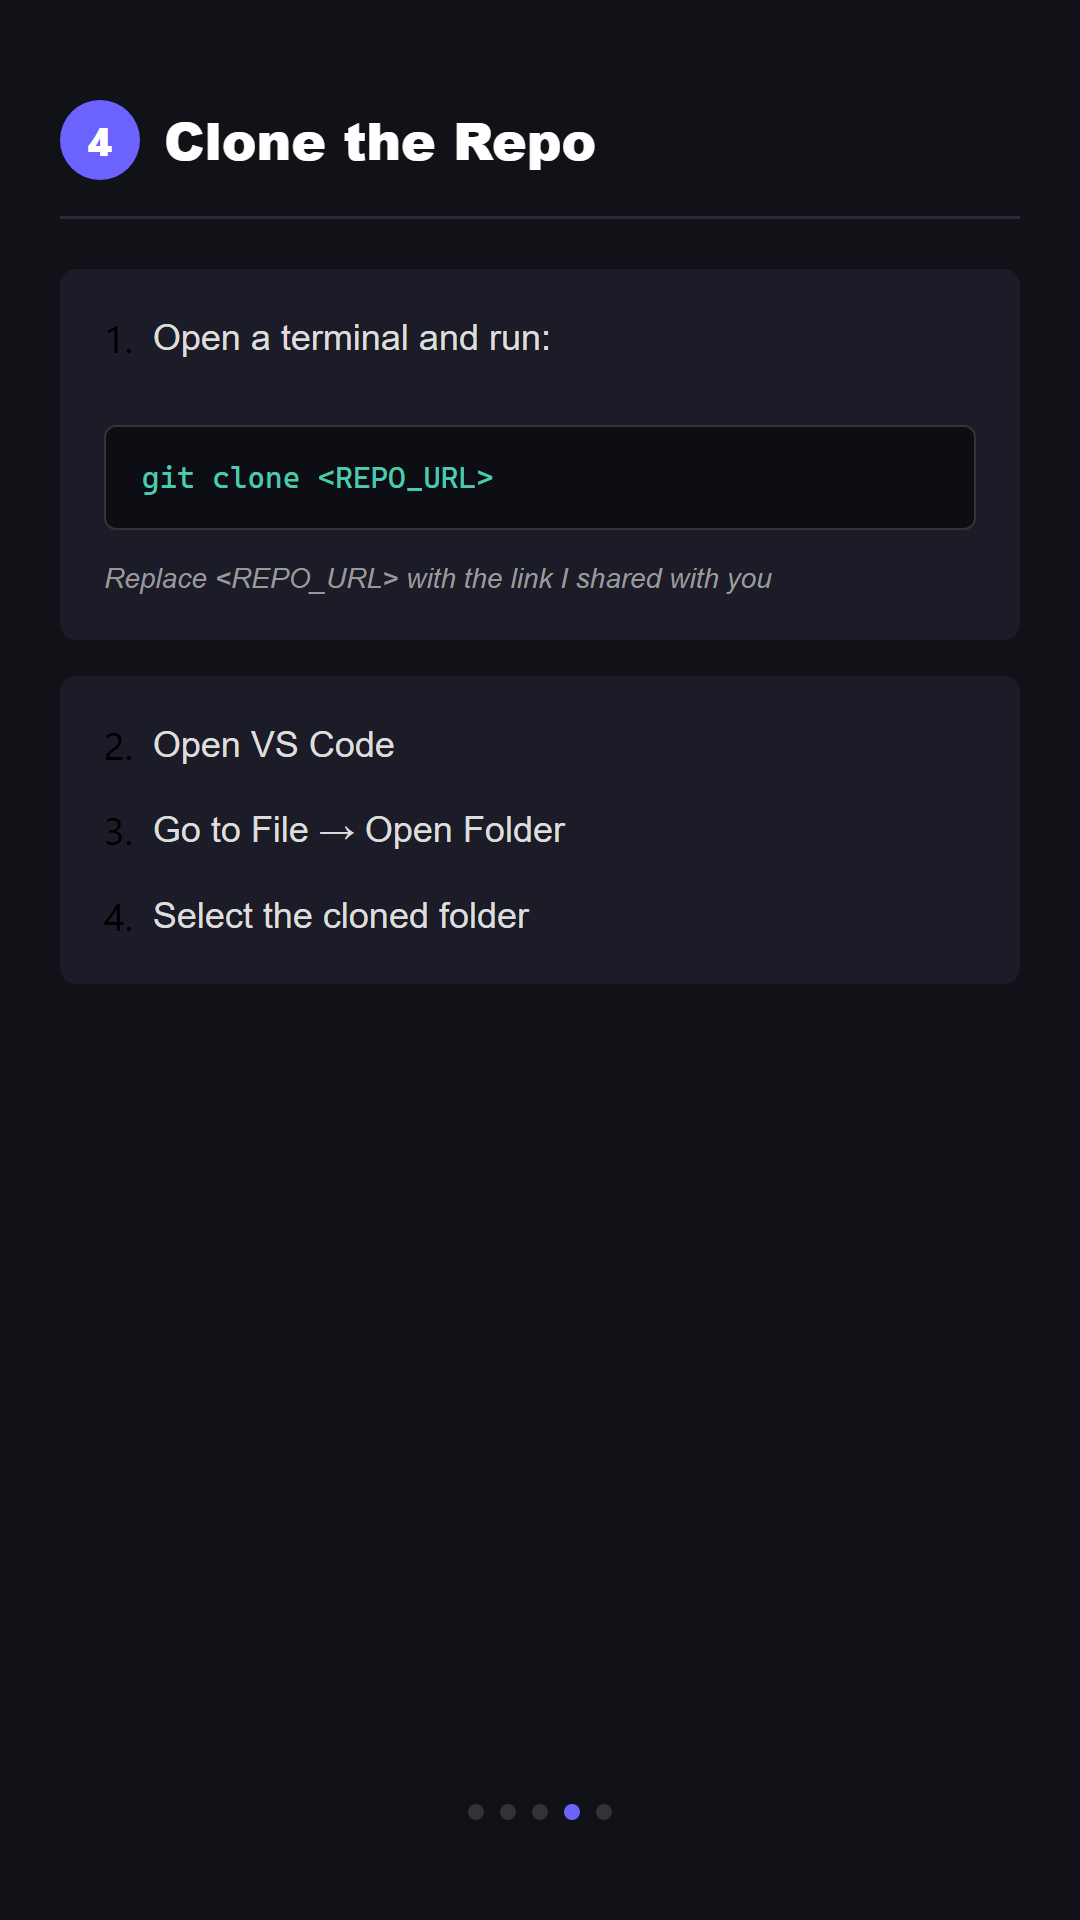
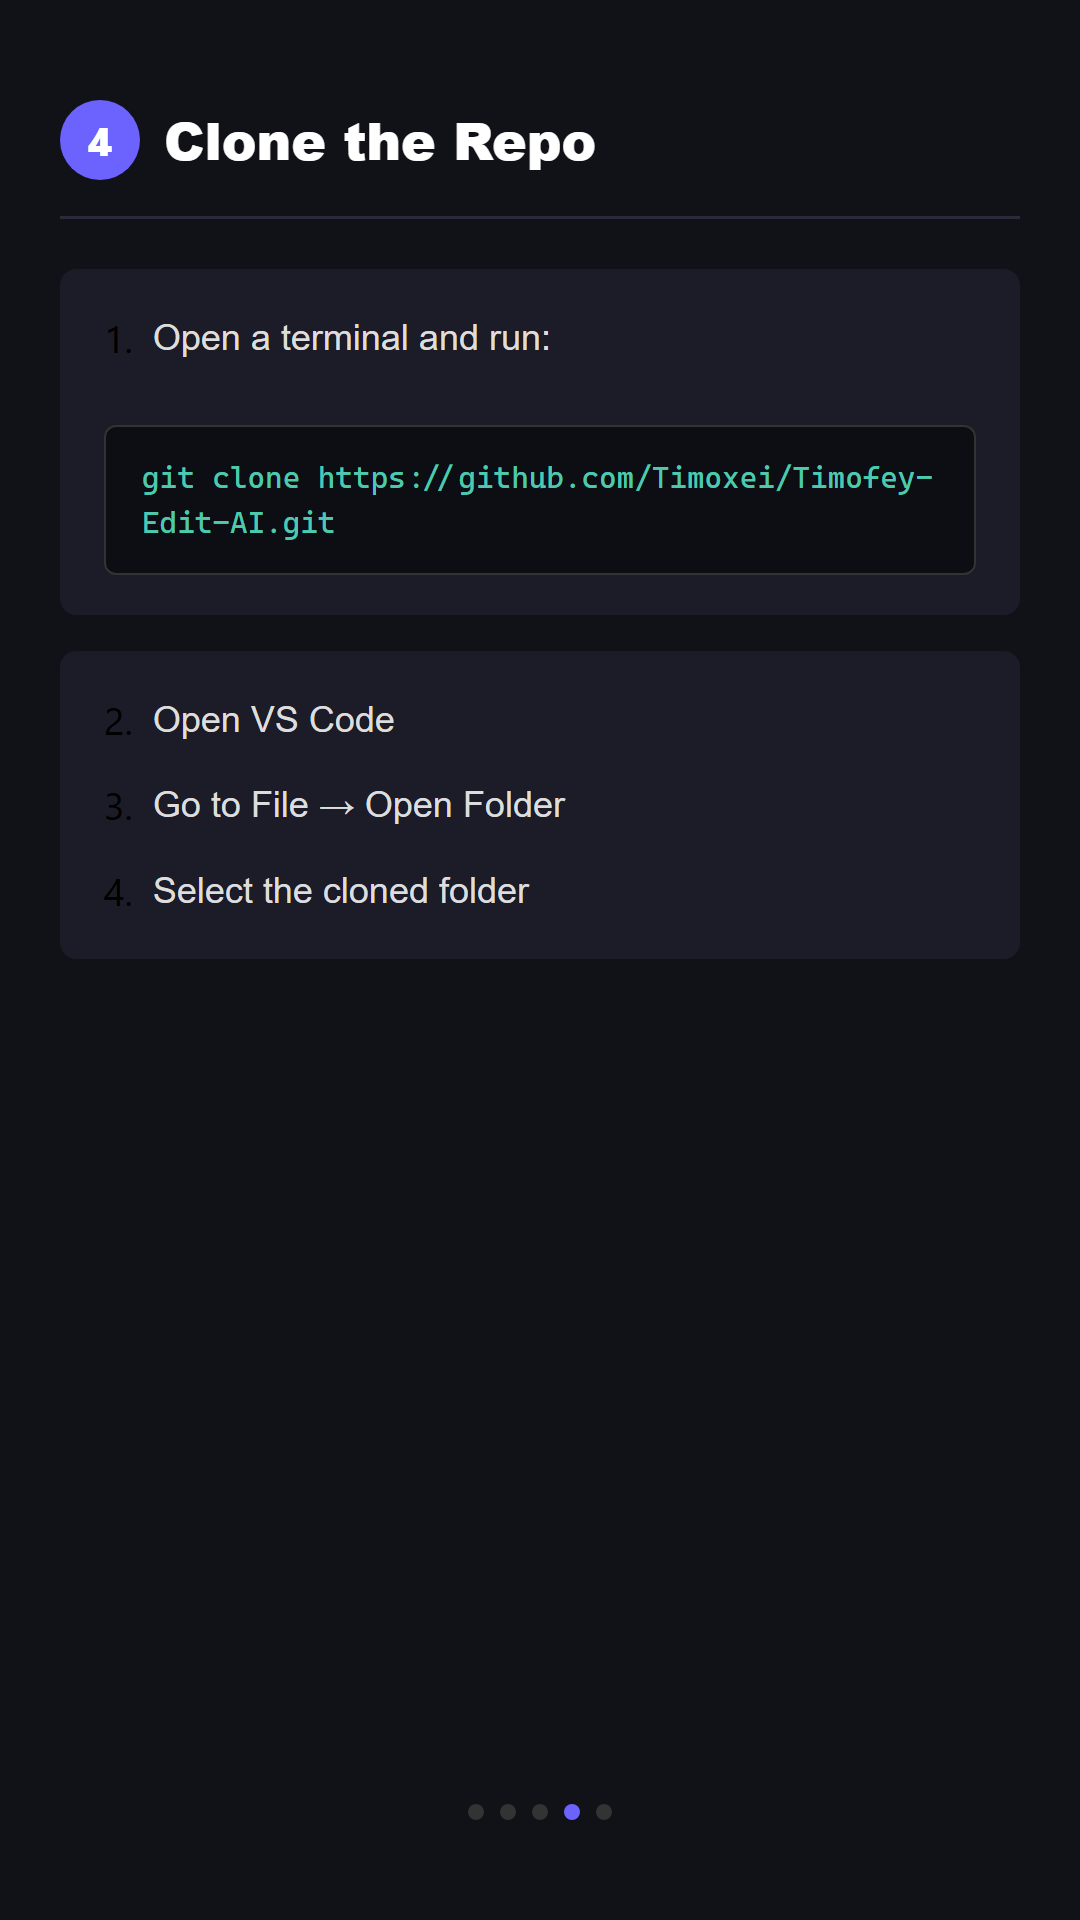
Update guide slide 5 with actual repo URL

Changed region(s): [[0.0917, 0.3438, 0.5194, 0.5], [0.0917, 0.2188, 0.7028, 0.3125], [0.7639, 0.25, 0.7944, 0.2812]]

diff --git a/src/ClaudeCodeGuide.tsx b/src/ClaudeCodeGuide.tsx
@@ -341,17 +341,7 @@ const CloneSlide: React.FC = () => (
 	<StepSlide step={4} title="Clone the Repo">
 		<Card>
 			<Instruction emoji="1." text="Open a terminal and run:" />
-			<CodeBlock>{"git clone <REPO_URL>"}</CodeBlock>
-			<div
-				style={{
-					fontSize: 28,
-					color: GRAY,
-					fontStyle: "italic",
-					fontFamily: "Arial, Helvetica, sans-serif",
-				}}
-			>
-				Replace {"<REPO_URL>"} with the link I shared with you
-			</div>
+			<CodeBlock>{"git clone https://github.com/Timoxei/Timofey-Edit-AI.git"}</CodeBlock>
 		</Card>
 		<Card>
 			<Instruction emoji="2." text="Open VS Code" />
